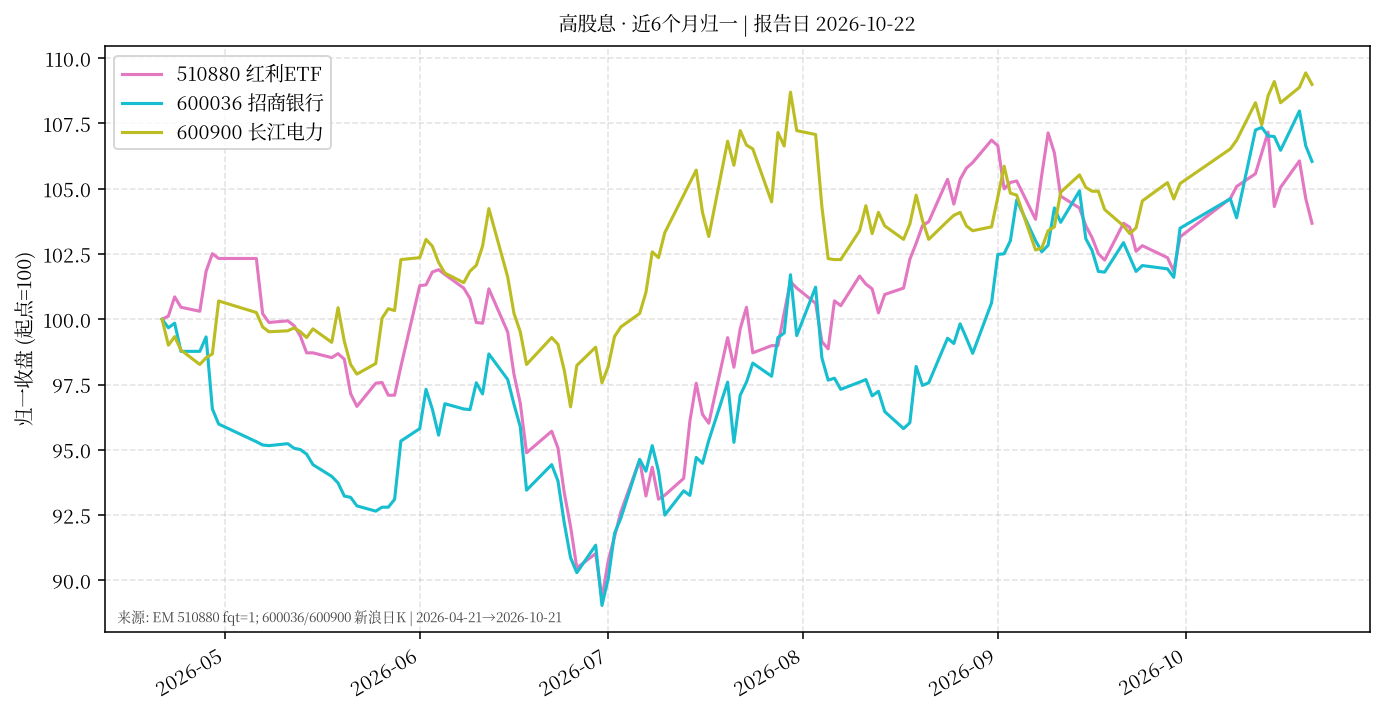
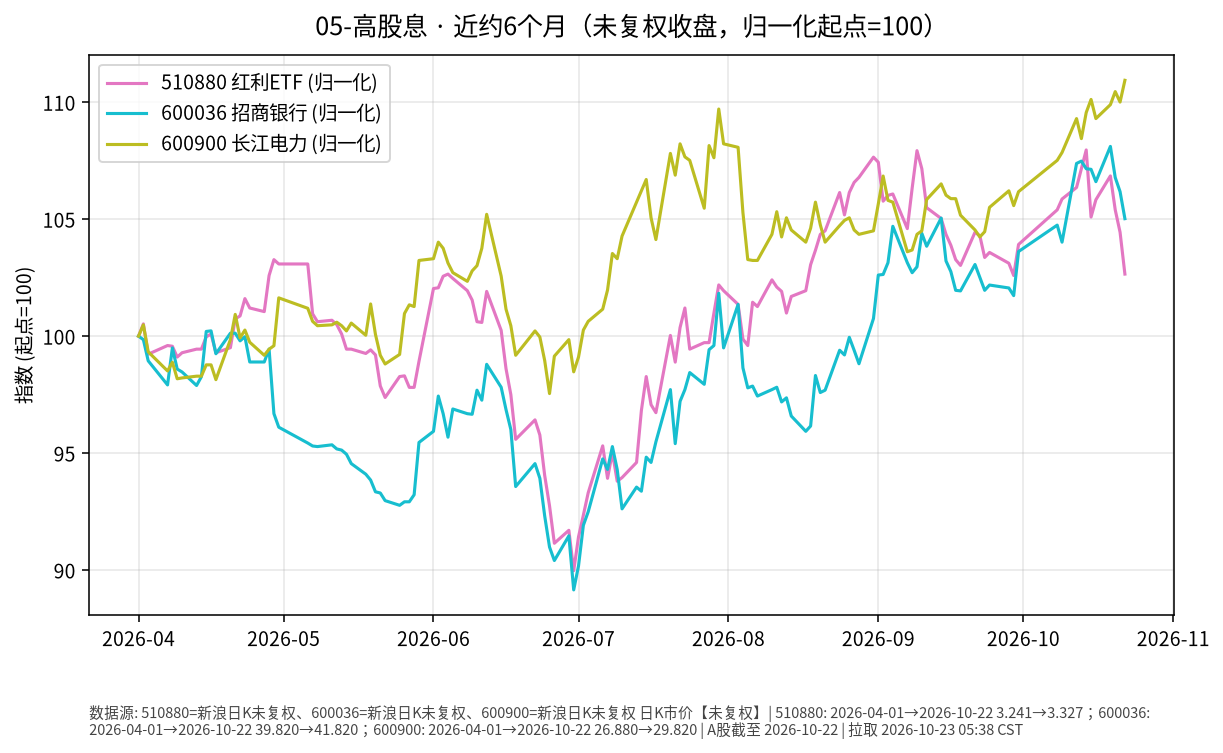
docs: 五门类投资日报 2026-10-23

diff --git a/01-黄金/日报/2026-10-23.md b/01-黄金/日报/2026-10-23.md
@@ -1,0 +1,30 @@
+# 黄金 · 日报 2026-10-23
+
+## 市场状态
+- **报告日**：2026-10-23（周五，Asia/Shanghai）
+- **数据截止交易日**：美股/GLD **2026-10-22**；A 股当日早盘未收盘，境内相关用上一交易日收盘。
+- GLD 收盘 **369.00**，较前一交易日 **-2.63%**（Yahoo Finance，复权收盘）。
+- 沪金 AU9999：**2026-10-22** 收盘 **880.30** 元/克（**-0.811%**）；黄金 ETF 518880 收 **8.360**（**-0.618%**）。
+
+## 关键数据
+| 标的 | 最近收盘日 | 收盘 | 日涨跌 | 近约6个月（归一起点日） | 区间涨跌 |
+|------|------------|------|--------|-------------------------|----------|
+| GLD | 2026-10-22 | 369.00 | -2.63% | 2026-04-22→2026-10-22 | -15.22% |
+| 518880 黄金ETF | 2026-10-22 | 8.360 | -0.618% | 2026-04-22→2026-10-22 | -16.43% |
+| AU9999（沪金） | 2026-10-22 | 880.30 | -0.811% | 2026-04-22→2026-10-22 | -16.09% |
+
+![近6个月走势](./charts/01-黄金-6m.png)
+
+## 简要解读
+- 美元计价黄金 ETF（GLD）在 **2026-10-22** 明显回落（约 **-2.63%**），与境内 518880、沪金 AU9999 同日下行方向一致；近约半年归一后约 **-15.2%～-16.4%**。
+- 价格变动同时受美元、实际利率与风险情绪影响；本页只描述已发生报价，不推断下一步方向。
+
+## 关注点与风险
+- 汇率：境内投资者若以人民币计量，还需叠加美元兑人民币变动，账面涨跌可能与 GLD 美元涨跌不一致。
+- 波动：黄金阶段性回撤后波动仍可能放大；ETF 净值/溢价、交易时段与现货不完全同步。
+- 数据完整性：本次成功叠加 GLD、518880 与 SGE Au99.99 三条归一曲线。
+
+## 来源与时间
+- GLD：Yahoo Finance（yfinance，auto_adjust=True），拉取时间约 2026-10-23 05:41:05 Asia/Shanghai
+- 518880：新浪日 K；AU9999：上海金交所 Dailyhq
+- 图表：Python matplotlib，收盘价归一到起点=100（图窗自 2026-04-01 起）

diff --git a/03-国债/日报/2026-10-23.md b/03-国债/日报/2026-10-23.md
@@ -1,0 +1,29 @@
+# 国债 · 日报 2026-10-23
+
+## 市场状态
+- **报告日**：2026-10-23；**数据截止交易日**：**2026-10-22**。
+- 国债 ETF 511010 收 **141.150**，日涨跌 **-0.001%**（近乎持平）。
+- 中债国债收益率曲线 **10 年期** 2026-10-22 报 **1.6414%**，较上日约 **+0.02 BP**（中国债券信息网/中债国债收益率曲线；财政部展示页同日约 1.64%、比上日约 +0.02BP）。
+- **提醒**：利率上行（曲线抬升）通常对应既有国债价格承压；图中 ETF 净值涨 ≠ 收益率涨。**利率↑线↑≠债价涨**。
+
+## 关键数据
+| 标的 | 收盘日 | 收盘/收益率 | 日变化 | 约6个月 | 区间 |
+|------|--------|-------------|--------|---------|------|
+| 511010 | 2026-10-22 | 141.150 | -0.001% | 2026-04-22→2026-10-22 | +0.22% |
+| 中债10Y国债收益率 | 2026-10-22 | 1.6414% | 约+0.02 BP | — | 公开曲线单日点 |
+
+![近6个月走势](./charts/03-国债-6m.png)
+
+## 简要解读
+- 511010 近半年归一涨跌约 **+0.22%**，路径相对平缓；2026-10-22 几乎持平，与 10Y 收益率仅微幅上行（约 +0.02BP）的量级相符。
+- 久期越长，对收益率变化越敏感；本页只记录 ETF 收盘与曲线点位。
+
+## 关注点与风险
+- 利率风险：收益率上行 → 债券市价下行。
+- 通胀预期、货币政策与供需（供给放量等）都会改变曲线形态。
+- 本次未能拉取 10Y 收益率完整日序入图（akshare 不可用），故图中未叠加收益率轴，仅在正文引用单日点位。
+
+## 来源与时间
+- 511010：新浪日 K；截止 2026-10-22
+- 收益率：yield.chinabond.com.cn 公开表（2026-10-22，10Y=1.6414%）
+- 图表：matplotlib，ETF 收盘归一=100

diff --git a/05-高股息/日报/2026-10-23.md b/05-高股息/日报/2026-10-23.md
@@ -1,0 +1,30 @@
+# 高股息 · 日报 2026-10-23
+
+## 市场状态
+- **报告日**：2026-10-23；**数据截止交易日**：**2026-10-22**。
+- 红利 ETF 510880 收 **3.327**（**-1.71%**）。
+- 招商银行 600036 收 **41.82**（**-1.09%**）；长江电力 600900 收 **29.82**（**+0.846%**）。
+- 红利 ETF 与招行同日回落，长电小幅上涨；分红与价格涨跌是两回事（股息率随股价变动）。
+- **价格口径**：本页序列为交易所日 K **未复权**收盘（新浪）。
+
+## 关键数据
+| 标的 | 收盘日 | 收盘 | 日涨跌 | 约6个月 | 区间涨跌 |
+|------|--------|------|--------|---------|----------|
+| 510880 红利ETF | 2026-10-22 | 3.327 | -1.71% | 2026-04-22→2026-10-22 | +1.77% |
+| 600036 招商银行 | 2026-10-22 | 41.82 | -1.09% | 2026-04-22→2026-10-22 | +5.23% |
+| 600900 长江电力 | 2026-10-22 | 29.82 | +0.846% | 2026-04-22→2026-10-22 | +11.02% |
+
+![近6个月走势](./charts/05-高股息-6m.png)
+
+## 简要解读
+- 近半年归一（未复权）：510880 约 **+1.77%**，招行约 **+5.23%**，长电约 **+11.02%**（个股路径强于宽基红利 ETF，不代表未来）。
+- 2026-10-22 红利与招行回调、长电上行，属已发生的价格分化事实。
+
+## 关注点与风险
+- 银行与公用事业对利率、监管、来水/电价等基本面敏感；高股息不保证本金稳定。
+- 510880 成分与权重定期调整；个股与 ETF 走势可显著偏离。
+- 未复权序列在除权除息日会出现跳空，与前复权路径不一致属正常。
+
+## 来源与时间
+- 510880 / 600036 / 600900：新浪 CN_MarketData K 线（未复权）
+- 截止 2026-10-22；图表 matplotlib，起点=100

diff --git a/02-中短债/日报/2026-10-23.md b/02-中短债/日报/2026-10-23.md
@@ -1,0 +1,28 @@
+# 中短债 · 日报 2026-10-23
+
+## 市场状态
+- **报告日**：2026-10-23；**A 股数据截止交易日**：**2026-10-22**（周五早间报告，当日未收盘）。
+- 短融 ETF 511360 收 **114.093**（日涨跌 **+0.014%**）。
+- 159649（国开债 ETF 华安）收 **110.760**（日涨跌 **+0.010%**）。
+- 短端品种单日变动极小；仅作路径对照，非交易建议。
+
+## 关键数据
+| 标的 | 收盘日 | 收盘 | 日涨跌 | 约6个月区间 | 区间涨跌 |
+|------|--------|------|--------|-------------|----------|
+| 511360 短融ETF海富通 | 2026-10-22 | 114.093 | +0.014% | 2026-04-22→2026-10-22 | +0.65% |
+| 159649 国开债ETF华安 | 2026-10-22 | 110.760 | +0.010% | 2026-04-22→2026-10-22 | +1.05% |
+
+![近6个月走势](./charts/02-中短债-6m.png)
+
+## 简要解读
+- 两条曲线近半年均呈缓慢抬升（归一后约 **+0.65%** / **+1.05%**），单日波动极小，符合短久期利率品种特征。
+- 159649 跟踪国开债，久期与信用暴露通常高于纯短融；与 511360 并排只为对照路径，不暗示优劣。
+
+## 关注点与风险
+- 利率上行时净值可能回撤（即使票息仍为正）。
+- ETF 折溢价、流动性与跟踪误差；节假日后跳空可能出现。
+- 杠杆与加久期会放大波动——本报告不讨论、不鼓励此类操作。
+
+## 来源与时间
+- 新浪 CN_MarketData 日 K，截止 2026-10-22
+- 图表：matplotlib，起点归一=100

diff --git a/04-纯债/日报/2026-10-23.md b/04-纯债/日报/2026-10-23.md
@@ -1,0 +1,28 @@
+# 纯债 · 日报 2026-10-23
+
+## 市场状态
+- **报告日**：2026-10-23；**数据截止交易日**：**2026-10-22**。
+- 城投债 ETF 511220 收 **10.465**（**+0.010%**）。
+- 政金债 ETF 511520 收 **119.752**（**-0.088%**）。
+- 信用利差与利率中枢共同影响净值；当日两者出现分化（城投微涨、政金债小幅回落）。
+
+## 关键数据
+| 标的 | 收盘日 | 收盘 | 日涨跌 | 约6个月 | 区间涨跌 |
+|------|--------|------|--------|---------|----------|
+| 511220 城投债ETF海富通 | 2026-10-22 | 10.465 | +0.010% | 2026-04-22→2026-10-22 | +1.29% |
+| 511520 政金债ETF富国 | 2026-10-22 | 119.752 | -0.088% | 2026-04-22→2026-10-22 | +1.99% |
+
+![近6个月走势](./charts/04-纯债-6m.png)
+
+## 简要解读
+- 近半年归一：511220 约 **+1.29%**，511520 约 **+1.99%**；政金债区间弹性略高于城投短端品种（路径对比，非优劣判断）。
+- 2026-10-22 511520 小幅回落、511220 近乎持平，说明同属「纯债」标签下仍可日内分化。
+
+## 关注点与风险
+- 信用事件、区域财政与估值修复预期会导致利差波动。
+- 流动性分层：ETF 二级市场成交冷清时折溢价可能扩大。
+- 不讨论加杠杆套息；只陈述已实现净值路径。
+
+## 来源与时间
+- 新浪日 K，截止 2026-10-22
+- 图表：matplotlib，起点=100
